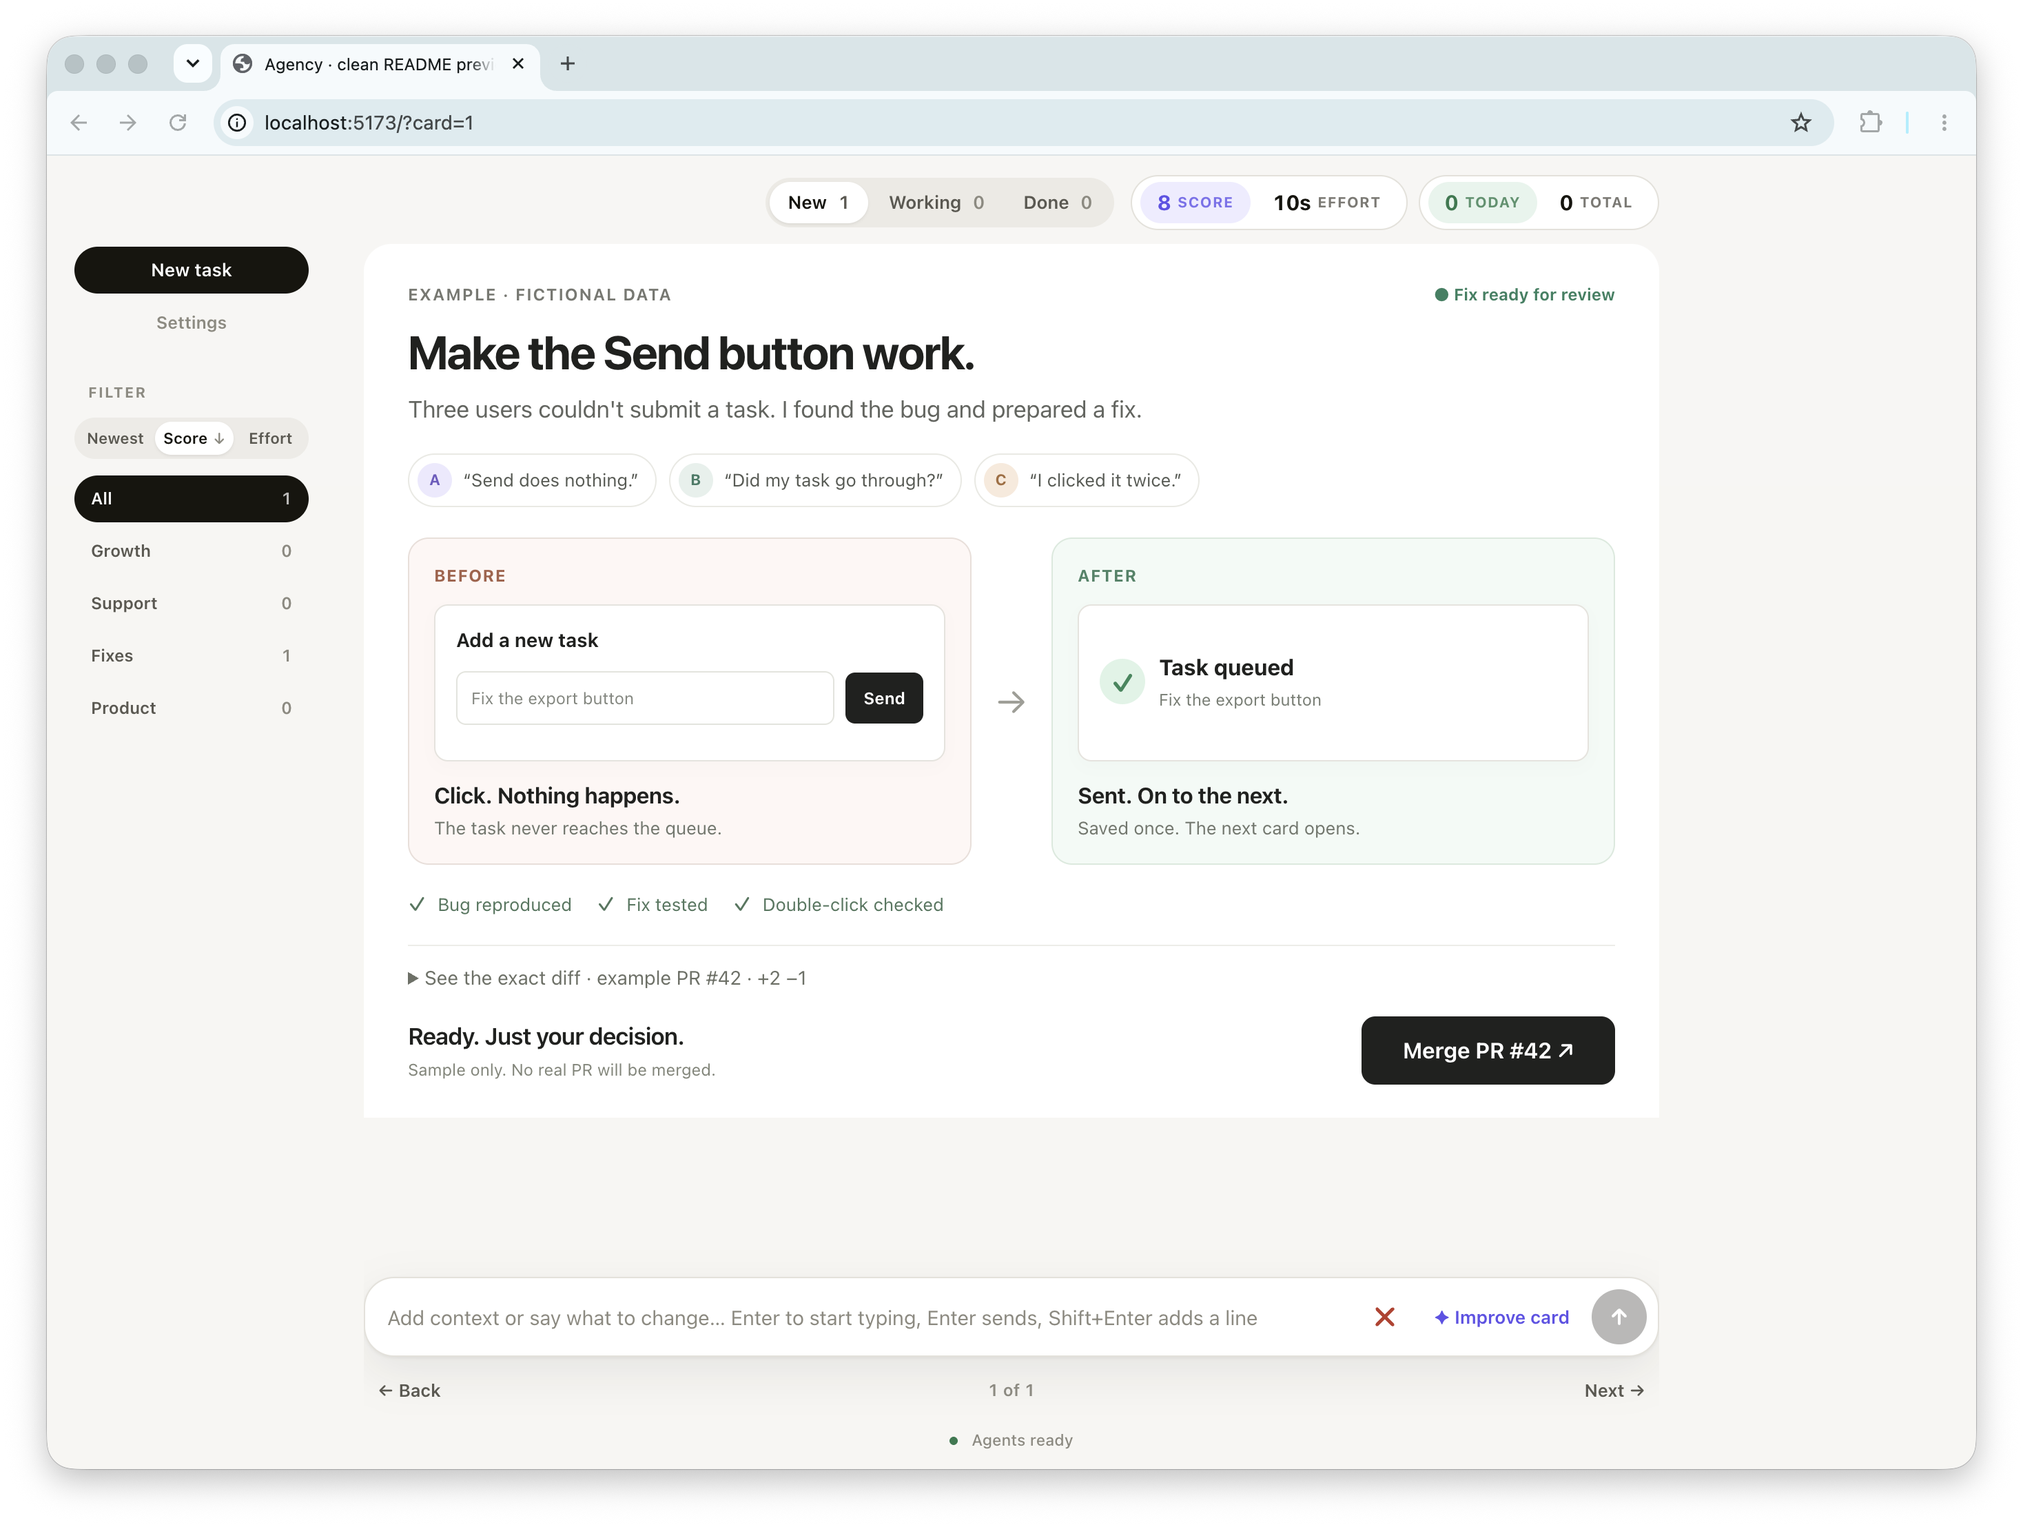
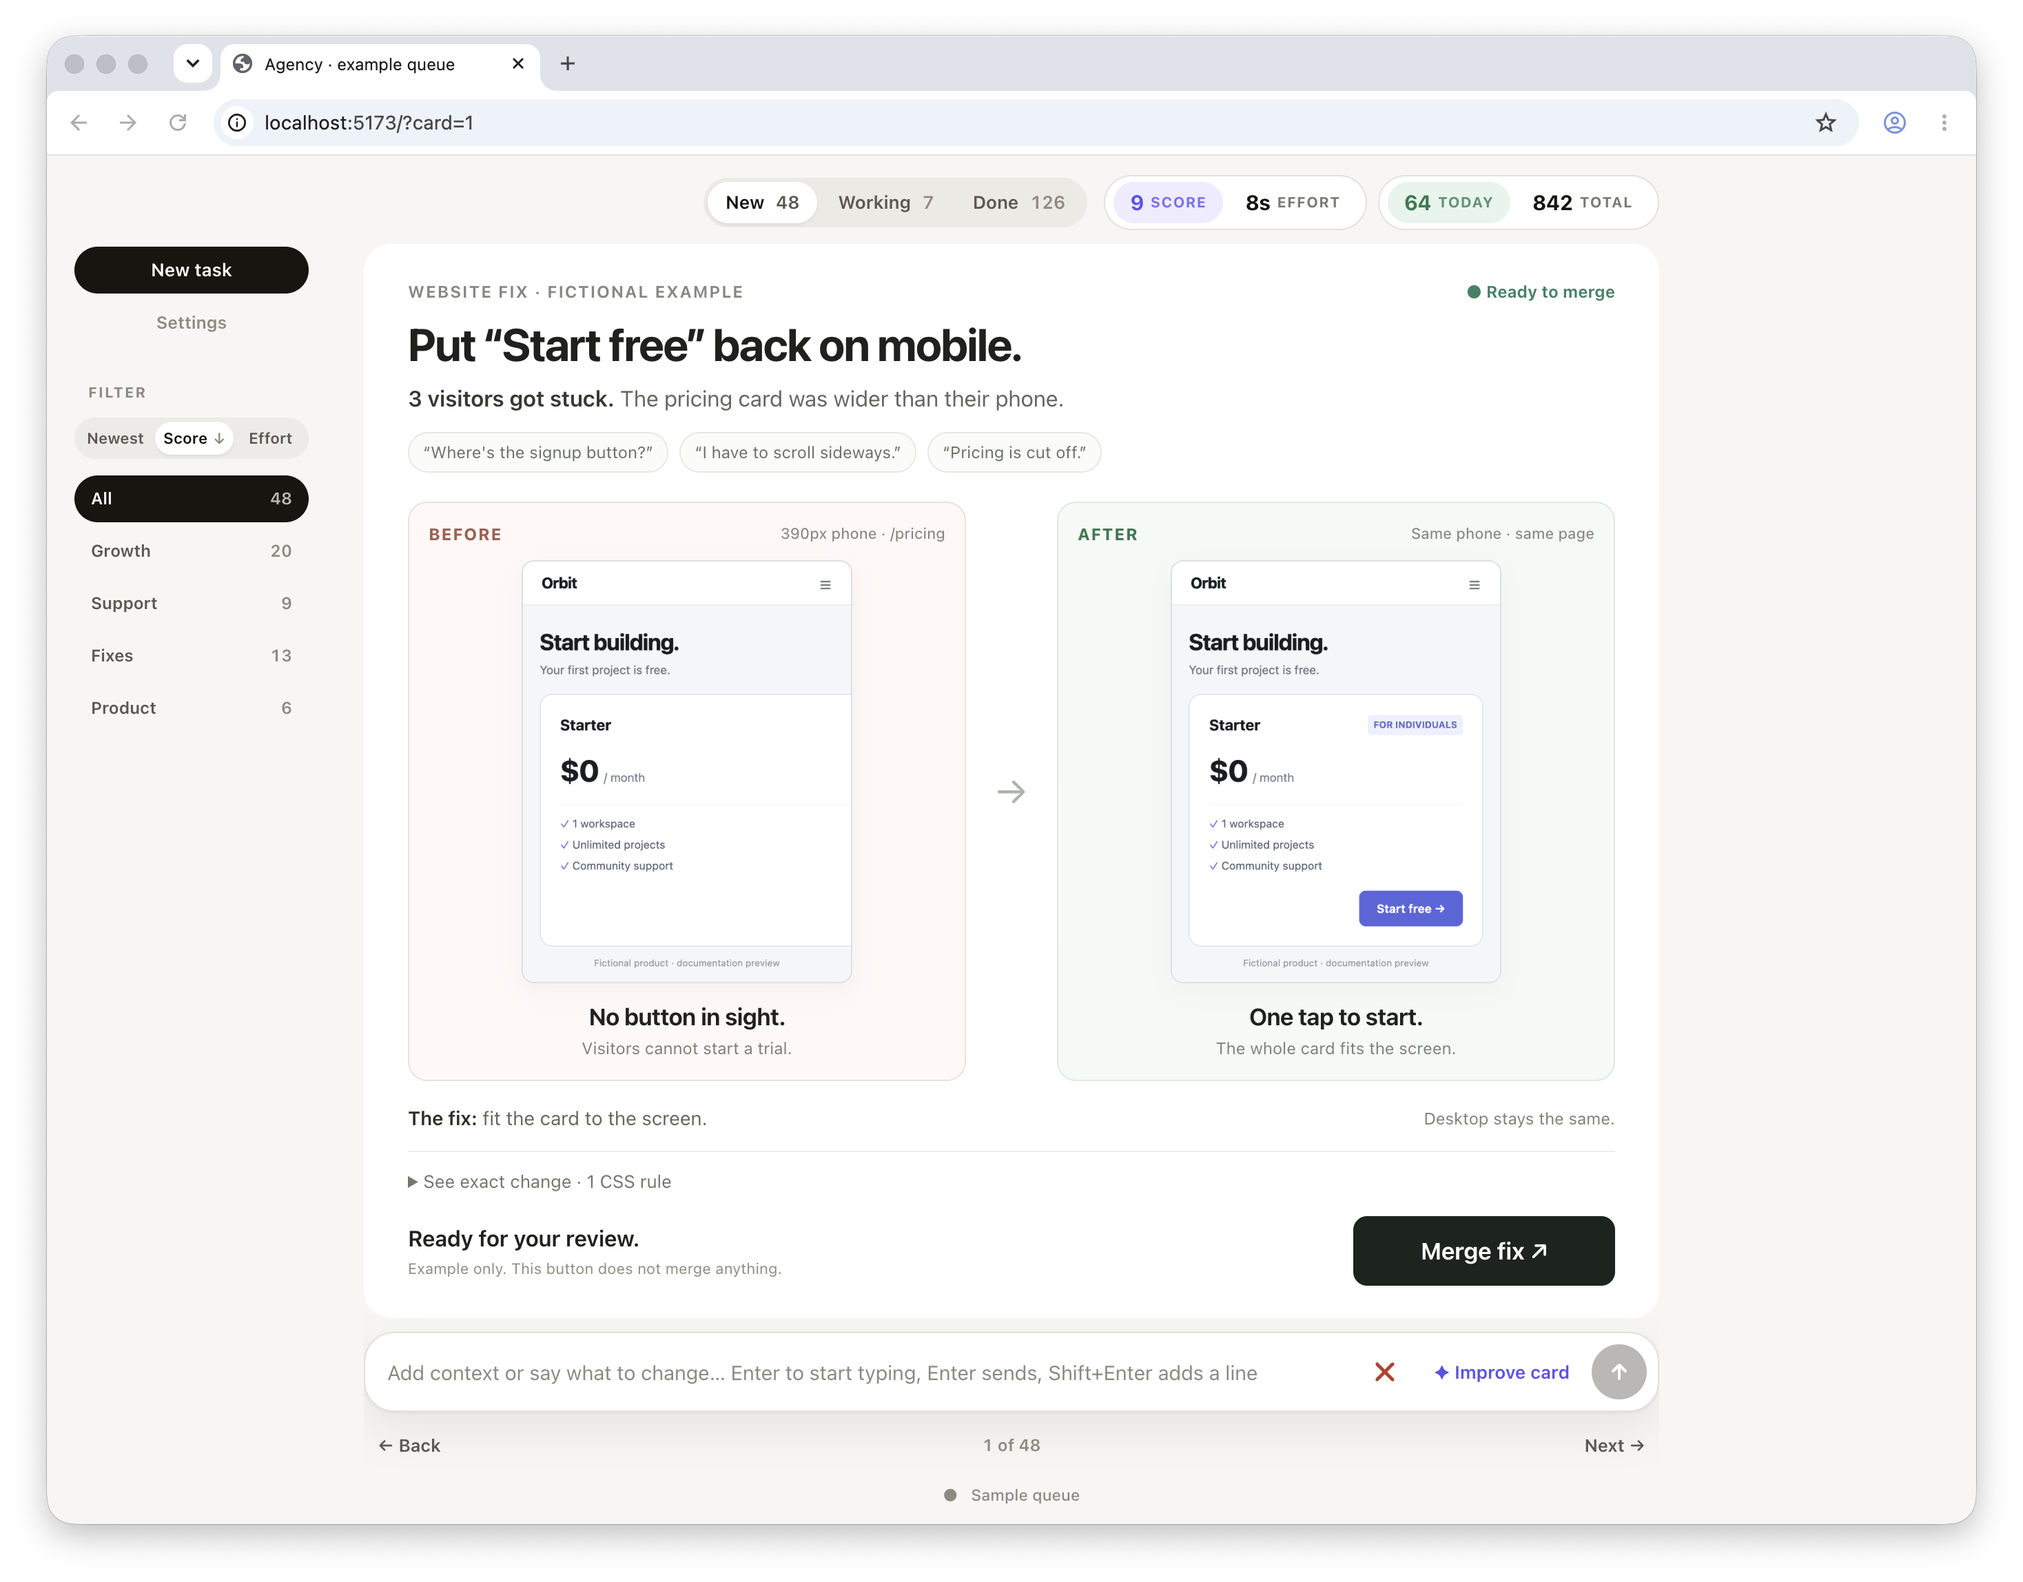
Clarify Agency preview with real before-after captures and sample queue (#1)

diff --git a/docs/readme/example-card.html b/docs/readme/example-card.html
@@ -1,80 +1,26 @@
-<!-- Fictional documentation fixture. Do not ingest into a real work queue or execute its example action. -->
+<!-- Fictional documentation fixture. Never ingest into a real work queue. -->
 <style>
-.readme-example{font:16px/1.45 -apple-system,BlinkMacSystemFont,"Segoe UI",sans-serif;color:#20211f;background:#fff;padding:28px 32px 24px}
-.readme-example *{box-sizing:border-box}.readme-example p,.readme-example h1{margin:0}
-.readme-example .eyebrow{display:flex;justify-content:space-between;gap:12px;color:#777871;font-size:12px;font-weight:650;letter-spacing:.08em;text-transform:uppercase;margin-bottom:13px}
-.readme-example .eyebrow span:last-child{color:#278160;letter-spacing:0;text-transform:none}
-.readme-example h1{font-size:34px;line-height:1.15;letter-spacing:-1.1px;margin-bottom:10px;font-weight:700}
-.readme-example .lead{font-size:17px;color:#62655f;max-width:750px}
-.readme-example .voices{display:flex;gap:9px;flex-wrap:wrap;margin:20px 0 22px}
-.readme-example .voice{display:flex;align-items:center;gap:8px;font-size:13px;color:#575b54;border:1px solid #e9e9e3;border-radius:30px;padding:6px 12px 6px 6px}
-.readme-example .avatar{display:grid;place-items:center;width:25px;height:25px;border-radius:50%;font-size:11px;font-weight:700;background:#ece9fd;color:#6e5ac1}
-.readme-example .voice:nth-child(2) .avatar{background:#e6f0ec;color:#3a7b66}.readme-example .voice:nth-child(3) .avatar{background:#fae9db;color:#a86c3c}
-.readme-example .comparison{display:grid;grid-template-columns:1fr 34px 1fr;align-items:center;gap:12px}
-.readme-example .panel{border:1px solid #eaded9;background:#fff7f4;border-radius:15px;padding:18px 18px 16px}
-.readme-example .panel.after{background:#f2faf5;border-color:#d8e9dd}
-.readme-example .panel-label{font-size:12px;font-weight:700;letter-spacing:.06em;color:#aa6049;margin-bottom:12px}
-.readme-example .after .panel-label{color:#438366}
-.readme-example .mini-ui{height:114px;padding:15px;background:#fff;border:1px solid #e6e3dd;border-radius:10px;box-shadow:0 4px 12px #2a261a05}
-.readme-example .mini-title{font-size:14px;font-weight:650;margin-bottom:12px}
-.readme-example .input-row{display:flex;gap:8px;align-items:center}
-.readme-example .fake-input{font-size:12px;color:#83877f;border:1px solid #e3e4dd;border-radius:7px;padding:10px;flex:1;white-space:nowrap}
-.readme-example .fake-send{font-size:12px;color:#fff;background:#20211f;border-radius:7px;padding:10px 13px;font-weight:650}
-.readme-example .success{display:flex;gap:10px;align-items:center;height:80px}
-.readme-example .check{display:grid;place-items:center;width:33px;height:33px;border-radius:50%;background:#dcf4e6;color:#27875a;font-size:19px;font-weight:700}
-.readme-example .success strong{display:block;font-size:16px}.readme-example .success small{display:block;color:#767d73;font-size:12px;margin-top:3px}
-.readme-example .outcome{font-size:16px;font-weight:650;letter-spacing:-.2px;margin-top:13px}
-.readme-example .explain{font-size:13px;color:#71776d;margin-top:3px}
-.readme-example .arrow{color:#9e9e96;font-size:27px;text-align:center}
-.readme-example .proof{display:flex;gap:18px;flex-wrap:wrap;align-items:center;margin:17px 0 0;font-size:13px;color:#4e775e}
-.readme-example .proof b{font-size:15px;margin-right:5px;font-weight:500}
-.readme-example details{margin-top:19px;border-top:1px solid #edede7;padding-top:13px;font-size:14px;color:#6c7066}
-.readme-example summary{cursor:pointer}.readme-example pre{white-space:pre-wrap;font-size:13px;padding:12px;background:#fafaf8;line-height:1.65}.readme-example .removed{display:block;background:#fff0ed;color:#974d3a}.readme-example .added{display:block;background:#eaf8ee;color:#2b6d42}
-.readme-example .decision{display:flex;align-items:center;justify-content:space-between;gap:18px;margin-top:18px}
-.readme-example .decision strong{display:block;font-size:17px;font-weight:600;letter-spacing:-.3px}.readme-example .decision small{display:block;font-size:12px;color:#818579;margin-top:3px}
-.readme-example .merge{background:#20211f;border:0;border-radius:10px;color:#fff;font:650 16px/1.2 -apple-system,BlinkMacSystemFont,"Segoe UI",sans-serif;min-height:48px;min-width:184px;padding:15px 22px;opacity:1;cursor:default;white-space:nowrap}
-@media(max-width:600px){.readme-example{padding:23px 18px}.readme-example h1{font-size:29px}.readme-example .comparison{grid-template-columns:1fr;gap:9px}.readme-example .arrow{transform:rotate(90deg)}.readme-example .voices{gap:6px}.readme-example .decision{align-items:stretch;flex-direction:column}.readme-example .merge{width:100%}.readme-example .eyebrow{font-size:11px}}
+.readme-example{font:16px/1.45 -apple-system,BlinkMacSystemFont,"Segoe UI",sans-serif;color:#20211f;background:#fff;padding:26px 32px 24px}.readme-example *{box-sizing:border-box}.readme-example p,.readme-example h1{margin:0}
+.eyebrow{display:flex;justify-content:space-between;gap:12px;color:#858880;font-size:12px;font-weight:650;letter-spacing:.08em;text-transform:uppercase;margin-bottom:11px}.eyebrow span:last-child{color:#268265;letter-spacing:0;text-transform:none}
+.readme-example h1{font-size:33px;line-height:1.12;letter-spacing:-1.05px;margin-bottom:9px;font-weight:700}.lead{font-size:16px;color:#62685f}.lead strong{color:#343a31;font-weight:600}.reports{display:flex;gap:8px;margin-top:13px;flex-wrap:wrap}.report{border:1px solid #e6e8e1;border-radius:20px;padding:5px 10px;font-size:12px;color:#6a7165;background:#fbfcf9}
+.comparison{display:grid;grid-template-columns:1fr 40px 1fr;gap:13px;margin:21px 0 17px;align-items:center}.panel{background:#f7f8fa;border:1px solid #e5e7ec;border-radius:14px;padding:14px;display:flex;flex-direction:column;align-items:center}.panel.before{background:#fff8f6;border-color:#f0e0d9}.panel.after{background:#f5faf7;border-color:#dbeae0}.panel-label{font-size:12px;font-weight:750;letter-spacing:.07em;color:#a65f4c;width:100%;display:flex;align-items:center;justify-content:space-between;margin-bottom:10px}.after .panel-label{color:#277950}.panel-label span{font-size:11px;font-weight:450;letter-spacing:0;color:#82877d}
+.screen{display:block;width:100%;max-width:240px;height:auto;border:1px solid #dcdfe4;border-radius:9px;background:#fff;box-shadow:0 6px 18px #2532420b}.caption{font-size:17px;font-weight:650;letter-spacing:-.3px;margin-top:12px}.subcaption{font-size:12px;color:#7c8277;margin-top:2px}.arrow{font-size:28px;text-align:center;color:#adb2a8}
+.summary{display:flex;gap:18px;align-items:center;justify-content:space-between;padding-bottom:13px;border-bottom:1px solid #eceee7}.summary p{font-size:14px;color:#606b5a}.summary strong{color:#293125;font-weight:600}.scope{color:#7c8475;font-size:12px;white-space:nowrap}.readme-example details{padding-top:12px;font-size:13px;color:#72786a}.readme-example summary{cursor:pointer}.readme-example pre{white-space:pre-wrap;font-size:12px;padding:12px;background:#fafbf8;line-height:1.65}.removed{display:block;background:#fff0ed;color:#974d3a}.added{display:block;background:#eaf8ee;color:#2b6d42}
+.decision{display:flex;align-items:center;justify-content:space-between;gap:16px;margin-top:16px}.decision strong{display:block;font-size:16px;font-weight:600}.decision small{display:block;font-size:11px;color:#89907f;margin-top:3px}.merge{background:#1b241d;border:0;border-radius:10px;color:#fff;font:650 17px/1.2 -apple-system,BlinkMacSystemFont,"Segoe UI",sans-serif;min-height:50px;min-width:190px;padding:15px 22px;opacity:1;cursor:default;white-space:nowrap}
+@media(max-width:600px){.readme-example{padding:22px 18px}.readme-example h1{font-size:28px}.comparison{grid-template-columns:1fr}.arrow{transform:rotate(90deg)}.decision{align-items:stretch;flex-direction:column}.merge{width:100%}.summary{align-items:start;flex-direction:column;gap:7px}}
 </style>
 <article class="readme-example">
-  <div class="eyebrow"><span>Example · fictional data</span><span>● Fix ready for review</span></div>
-  <h1>Make the Send button work.</h1>
-  <p class="lead">Three users couldn't submit a task. I found the bug and prepared a fix.</p>
-
-  <div class="voices" aria-label="Three fictional user reports">
-    <div class="voice"><span class="avatar">A</span> “Send does nothing.”</div>
-    <div class="voice"><span class="avatar">B</span> “Did my task go through?”</div>
-    <div class="voice"><span class="avatar">C</span> “I clicked it twice.”</div>
-  </div>
-
-  <div class="comparison" aria-label="Illustration of the behavior before and after the proposed fix">
-    <section class="panel">
-      <div class="panel-label">BEFORE</div>
-      <div class="mini-ui">
-        <div class="mini-title">Add a new task</div>
-        <div class="input-row"><div class="fake-input">Fix the export button</div><div class="fake-send">Send</div></div>
-      </div>
-      <div class="outcome">Click. Nothing happens.</div>
-      <div class="explain">The task never reaches the queue.</div>
-    </section>
-    <div class="arrow" aria-hidden="true">→</div>
-    <section class="panel after">
-      <div class="panel-label">AFTER</div>
-      <div class="mini-ui">
-        <div class="success"><span class="check">✓</span><div><strong>Task queued</strong><small>Fix the export button</small></div></div>
-      </div>
-      <div class="outcome">Sent. On to the next.</div>
-      <div class="explain">Saved once. The next card opens.</div>
-    </section>
-  </div>
-
-  <div class="proof"><span><b>✓</b> Bug reproduced</span><span><b>✓</b> Fix tested</span><span><b>✓</b> Double-click checked</span></div>
-  <details>
-    <summary>See the exact diff · example PR #42 · +2 −1</summary>
-    <pre>app/new-task.tsx · illustrative diff, not a real commit
-<span class="removed">- submitTask(draft);</span><span class="added">+ await submitTask(draft);</span><span class="added">+ closeComposer();</span></pre>
-  </details>
-  <div class="decision">
-    <div><strong>Ready. Just your decision.</strong><small>Sample only. No real PR will be merged.</small></div>
-    <button class="merge" type="button" disabled aria-label="Merge example PR 42, disabled documentation preview" data-radar-action="do" data-radar-prompt="Fictional README fixture only. Do not merge, send, or perform any external action.">Merge PR #42 ↗</button>
-  </div>
+<div class="eyebrow"><span>Website fix · fictional example</span><span>● Ready to merge</span></div>
+<h1>Put “Start free” back on mobile.</h1>
+<p class="lead"><strong>3 visitors got stuck.</strong> The pricing card was wider than their phone.</p>
+<div class="reports"><span class="report">“Where's the signup button?”</span><span class="report">“I have to scroll sideways.”</span><span class="report">“Pricing is cut off.”</span></div>
+<div class="comparison">
+<section class="panel before"><div class="panel-label">BEFORE<span>390px phone · /pricing</span></div><img class="screen" src="/agent-assets/readme/pricing-before.png" width="390" height="500" alt="Example mobile pricing screenshot with the plan and Start free button cut off on the right"><div class="caption">No button in sight.</div><div class="subcaption">Visitors cannot start a trial.</div></section>
+<div class="arrow" aria-hidden="true">→</div>
+<section class="panel after"><div class="panel-label">AFTER<span>Same phone · same page</span></div><img class="screen" src="/agent-assets/readme/pricing-after.png" width="390" height="500" alt="The same example pricing page after the fix: the whole plan and Start free button fit the phone"><div class="caption">One tap to start.</div><div class="subcaption">The whole card fits the screen.</div></section>
+</div>
+<div class="summary"><p><strong>The fix:</strong> fit the card to the screen.</p><span class="scope">Desktop stays the same.</span></div>
+<details><summary>See exact change · 1 CSS rule</summary><pre>pricing.css · illustrative diff, not a real PR
+<span class="removed">- .plan { width: 570px; }</span><span class="added">+ .plan { width: 100%; max-width: 570px; }</span></pre></details>
+<div class="decision"><div><strong>Ready for your review.</strong><small>Example only. This button does not merge anything.</small></div><button class="merge" type="button" disabled data-radar-action="do" data-radar-prompt="Fictional README preview. Do not execute any action.">Merge fix ↗</button></div>
 </article>

diff --git a/docs/readme/pricing-example.html b/docs/readme/pricing-example.html
@@ -1,0 +1,16 @@
+<!doctype html>
+<html lang="en">
+<meta charset="utf-8">
+<meta name="viewport" content="width=device-width, initial-scale=1">
+<title>Pricing · fictional screenshot fixture</title>
+<style>
+*{box-sizing:border-box}body{margin:0;font:16px/1.45 -apple-system,BlinkMacSystemFont,"Segoe UI",sans-serif;color:#191c21;background:#f5f6f8;overflow:hidden}
+nav{height:52px;padding:0 22px;background:white;border-bottom:1px solid #e4e7ec;display:flex;align-items:center;justify-content:space-between;font-weight:750;font-size:18px;letter-spacing:-.5px}nav span{font-size:20px;font-weight:400;color:#747980}
+main{padding:24px 20px}h1{font-size:27px;letter-spacing:-.8px;margin:0 0 4px}p{font-size:14px;color:#69717f;margin:0 0 18px}.plan{background:#fff;border:1px solid #d8dee7;border-radius:15px;padding:23px;width:570px}.fixed .plan{width:100%;max-width:570px}
+.top{display:flex;justify-content:space-between;align-items:center;margin-bottom:15px;gap:12px}.name{font-size:18px;font-weight:700}.tag{font-size:11px;color:#5565ca;background:#edf0ff;border-radius:5px;padding:4px 7px;font-weight:650}.price{font-size:36px;font-weight:750;letter-spacing:-1.2px}.price small{font-size:14px;color:#757e8d;font-weight:400;letter-spacing:0}
+.features{border-top:1px solid #edf0f3;padding-top:13px;margin-top:14px;font-size:13px;display:grid;gap:6px;color:#596272}.features span::first-letter{color:#6575e8}.action{display:flex;justify-content:flex-end;margin-top:20px}button{border:0;border-radius:8px;background:#5564dc;color:white;padding:13px 21px;font:650 14px -apple-system,BlinkMacSystemFont,"Segoe UI",sans-serif}.note{font-size:11px;text-align:center;color:#9299a4;margin-top:12px}
+</style>
+<body>
+<nav>Orbit<span>☰</span></nav>
+<main><h1>Start building.</h1><p>Your first project is free.</p><section class="plan"><div class="top"><span class="name">Starter</span><span class="tag">FOR INDIVIDUALS</span></div><div class="price">$0 <small>/ month</small></div><div class="features"><span>✓ 1 workspace</span><span>✓ Unlimited projects</span><span>✓ Community support</span></div><div class="action"><button type="button" disabled>Start free →</button></div></section><div class="note">Fictional product · documentation preview</div></main>
+</body></html>

diff --git a/README.md b/README.md
@@ -14,9 +14,9 @@ Start agency. Create a me.md file and make the first 10 suggestions.
 
 <br><br>
 
-![Agency running on localhost, showing an example bug-fix card with before and after views and one Merge button](docs/readme/agency-localhost.png)
+![Agency on localhost: a mobile pricing bug, before-and-after screenshots, and one Merge fix button](docs/readme/agency-localhost.png)
 
-*Actual localhost app. Fictional example data; no real customer reports or PR.*
+*Actual localhost app. Sample cards, points and reports. Before/after screenshots show a fictional pricing page; no real PR.*
 
 <br>
 
